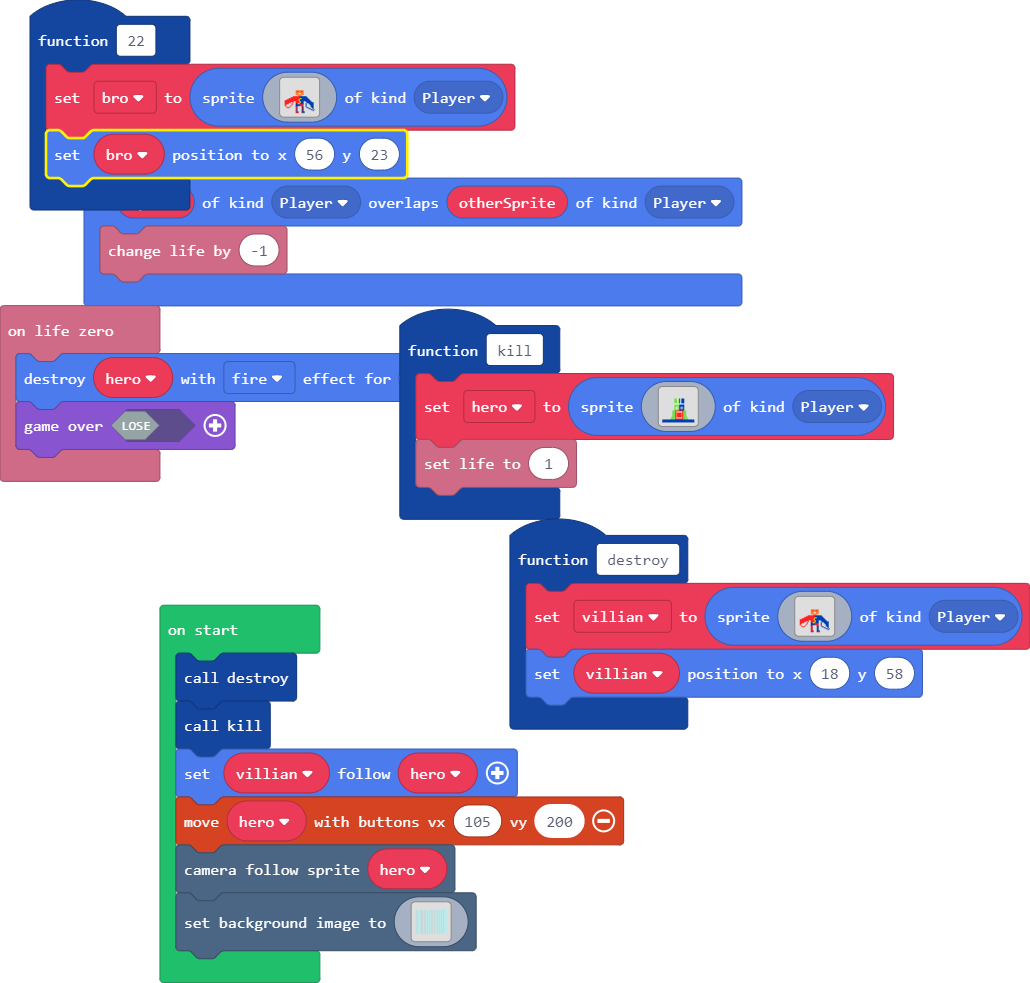
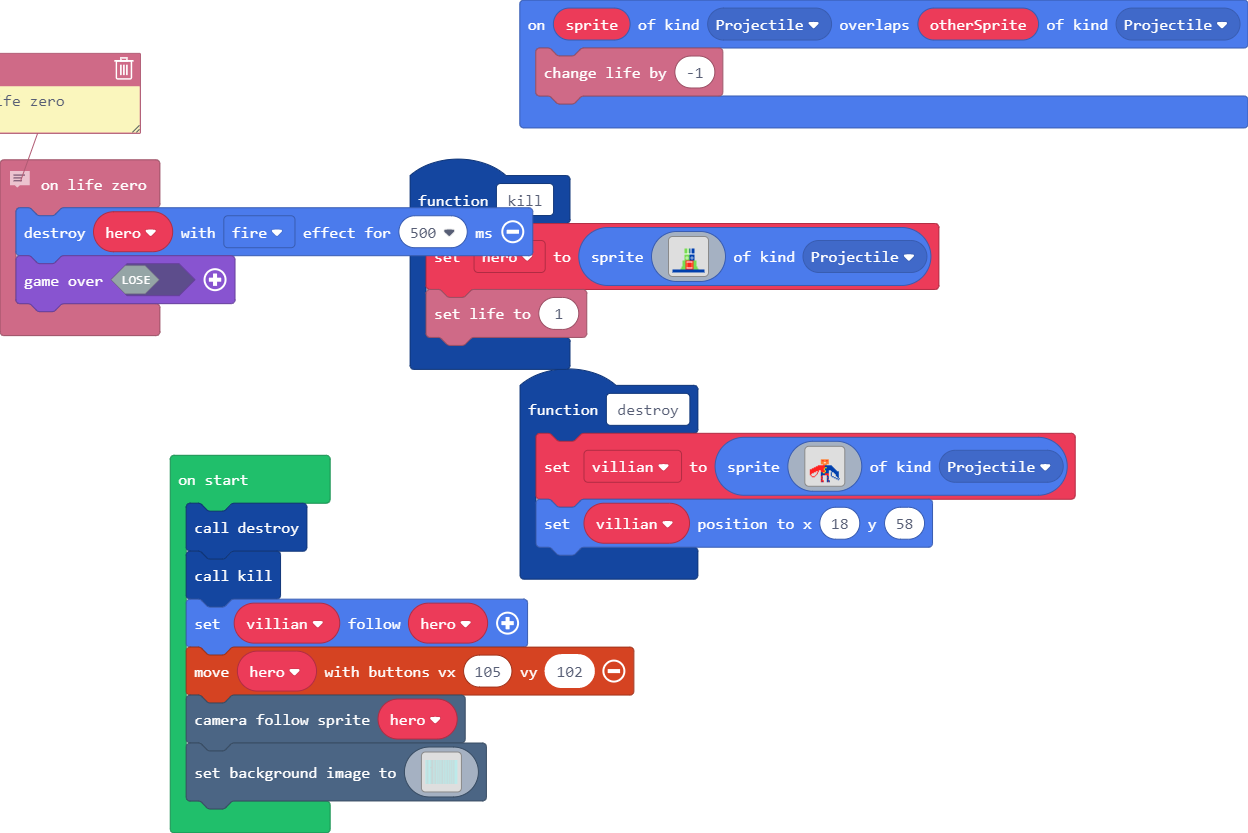
Update main.blocks, main.ts

diff --git a/main.ts b/main.ts
@@ -19,43 +19,6 @@ namespace myTiles {
 . . . . . . . . . . . . . . . . 
 `
 }
-function _22 () {
-    bro = sprites.create(img`
-. . . . . . . . . . . . . . . . . . . . . . . . . . . . . . . . 
-. . . . . . . . . . . . . . . . . . . . . . . . . . . . . . . . 
-. . . . . . . . . . . . . . . . . . . . . . . . . . . . . . . . 
-. . . . . . . . . . . . . . . . . . . . . . . . . . . . . . . . 
-. . . . . . . . . . . . . . . . . . . . . . . . . . . . . . . . 
-. . . . . . . . . . . . . . . . . . . . . . . . . . . . . . . . 
-. . . . . . . . . . . . . . . . . . . . . . . . . . . . . . . . 
-. . . . . . . . . . . . . . . . . . . . . . . . . . . . . . . . 
-. . . . . . . . . . . . . . . . . . . . . . . . . . . . . . . . 
-. . . . . . . . . . . . 4 4 4 4 4 4 4 4 . . . . . . . . . . . . 
-. . . . . . . . . . . . 4 2 2 4 4 2 2 4 . . . . . . . . . . . . 
-. . . . . . . . . . . . 4 4 4 4 4 4 4 4 . . . . . . . . . . . . 
-. . . . . . . . . . . . 4 4 4 1 1 4 4 4 . . . . . . . . . . . . 
-. . . . . . . . . . . . 4 4 4 4 4 4 4 4 . . . . . . . . . . . . 
-. . . . . . . . . . . . . . 4 4 4 4 . . . . . . . . . . . . . . 
-. . . . . . . . . 2 2 2 2 2 2 2 8 8 8 8 8 8 8 . . . . . . . . . 
-. . . . . . . 2 2 2 2 2 2 2 2 2 8 8 8 8 8 8 8 8 . . . . . . . . 
-. . . . . 2 2 2 2 2 2 2 2 2 2 2 5 5 8 8 8 8 8 8 8 . . . . . . . 
-. . . 2 2 2 2 2 2 2 2 2 2 2 2 5 8 8 8 8 8 8 8 8 8 8 . . . . . . 
-. 2 2 2 2 2 2 2 2 2 2 2 2 2 2 5 8 8 8 8 8 8 8 8 8 8 8 . . . . . 
-. 2 2 2 2 2 2 2 2 2 . . 2 2 2 2 5 8 8 8 . . 8 8 8 8 8 8 . . . . 
-. 2 2 2 2 2 2 . . 2 . . 2 2 2 2 5 8 8 8 . . . 8 8 8 8 8 8 8 . . 
-. 2 2 2 2 . . . 2 . . . 8 8 5 5 8 8 8 8 . . 8 . . 8 8 8 8 8 . . 
-. 2 2 . . . . . 2 . . . 8 8 8 8 2 2 2 2 . . 8 . . . 8 8 8 8 . . 
-. 2 . . . . . 2 . . . . 8 8 8 8 2 2 2 2 . . 8 . . . . 8 8 8 . . 
-. . 2 . . . 2 . . . . . 8 2 . . . . 8 2 . . 8 . . . . 8 8 8 . . 
-. . . 2 2 2 . . . . . . 2 2 . . . . 8 8 . . . 8 8 . . . 8 8 . . 
-. . . . . . . . . . . . 2 8 . . . . 2 8 . . . . . 8 8 . . 8 . . 
-. . . . . . . . . . . . 2 2 . . . . 8 8 . . . . . . . 8 8 . 8 . 
-. . . . . . . . . . . . 8 2 . . . . 8 2 . . . . . . . . . 8 . . 
-. . . . . . . . . . . . 2 2 2 . . . 8 8 8 . . . . . . . . . . . 
-. . . . . . . . . . . . 2 8 2 . . . 8 2 8 . . . . . . . . . . . 
-`, SpriteKind.Player)
-    bro.setPosition(56, 23)
-}
 function kill () {
     hero = sprites.create(img`
 . . . . . . . . . . . . . . . . . . . . . . . . . . . . . . . . 
@@ -90,9 +53,12 @@ function kill () {
 8 8 8 8 8 8 8 8 8 8 8 8 8 8 8 8 8 8 8 8 8 8 8 8 8 8 8 8 8 8 8 8 
 8 8 8 8 8 8 8 8 8 8 8 8 8 8 8 8 8 8 8 8 8 8 8 8 8 8 8 8 8 8 8 8 
 8 8 8 8 8 8 8 8 8 8 8 8 8 8 8 8 8 8 8 8 8 8 8 8 8 8 8 8 8 8 8 8 
-`, SpriteKind.Player)
+`, SpriteKind.Projectile)
     info.setLife(1)
 }
+sprites.onOverlap(SpriteKind.Projectile, SpriteKind.Projectile, function (sprite, otherSprite) {
+    info.changeLifeBy(-1)
+})
 function destroy () {
     villian = sprites.create(img`
 . . . . . . . . . . . . . . . . . . . . . . . . . . . . . . . . 
@@ -127,23 +93,20 @@ function destroy () {
 . . . . . . . . . . . . 8 2 . . . . 8 2 . . . . . . . . . 8 . . 
 . . . . . . . . . . . . 2 2 2 . . . 8 8 8 . . . . . . . . . . . 
 . . . . . . . . . . . . 2 8 2 . . . 8 2 8 . . . . . . . . . . . 
-`, SpriteKind.Player)
+`, SpriteKind.Projectile)
     villian.setPosition(18, 58)
 }
-sprites.onOverlap(SpriteKind.Player, SpriteKind.Player, function (sprite, otherSprite) {
-    info.changeLifeBy(-1)
-})
+// life zero 
 info.onLifeZero(function () {
     hero.destroy(effects.fire, 500)
     game.over(false)
 })
-let bro: Sprite = null
 let hero: Sprite = null
 let villian: Sprite = null
 destroy()
 kill()
 villian.follow(hero)
-controller.moveSprite(hero, 105, 200)
+controller.moveSprite(hero, 105, 102)
 scene.cameraFollowSprite(hero)
 scene.setBackgroundImage(img`
 9 9 9 9 9 2 9 9 9 9 9 9 9 9 2 9 9 9 9 9 9 9 9 9 9 2 9 9 9 9 9 2 9 9 9 9 9 9 2 9 9 9 9 9 9 9 9 2 9 9 9 9 9 9 2 9 9 9 9 9 9 9 9 2 9 9 9 9 9 9 9 9 9 2 9 9 9 9 9 9 9 2 9 9 9 9 9 9 9 2 9 9 9 9 9 9 9 2 9 9 9 9 9 9 9 2 9 9 9 9 9 9 9 9 2 9 9 9 9 9 9 9 9 2 9 9 9 9 9 9 9 9 2 9 9 9 9 9 9 9 9 9 9 9 9 9 9 9 9 9 9 9 9 9 9 9 9 9 9 9 
